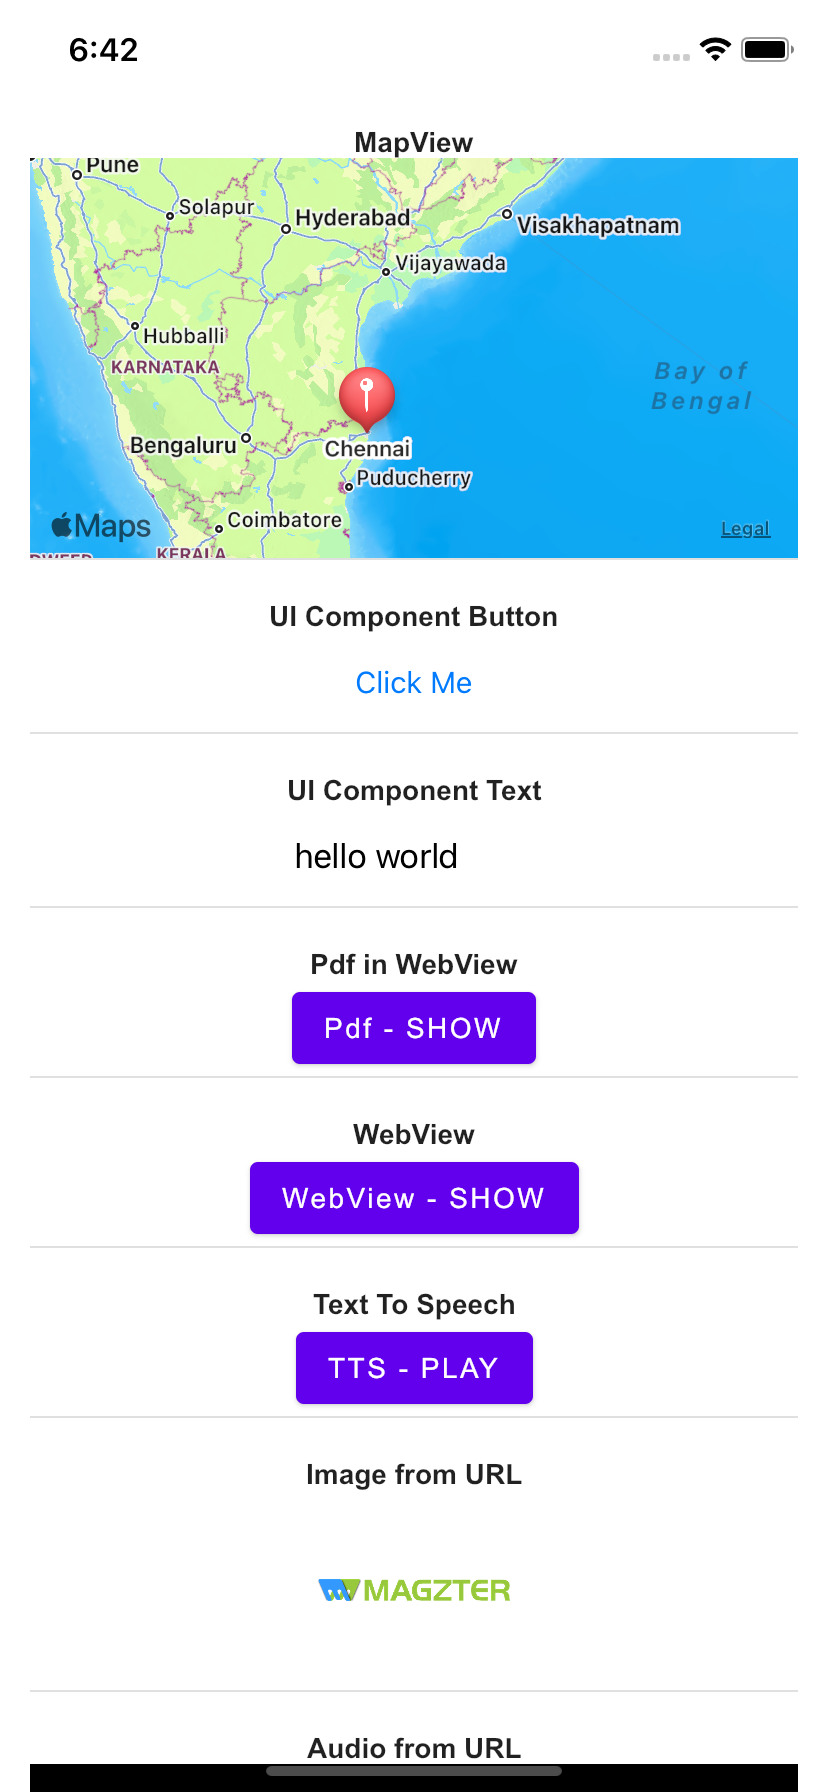
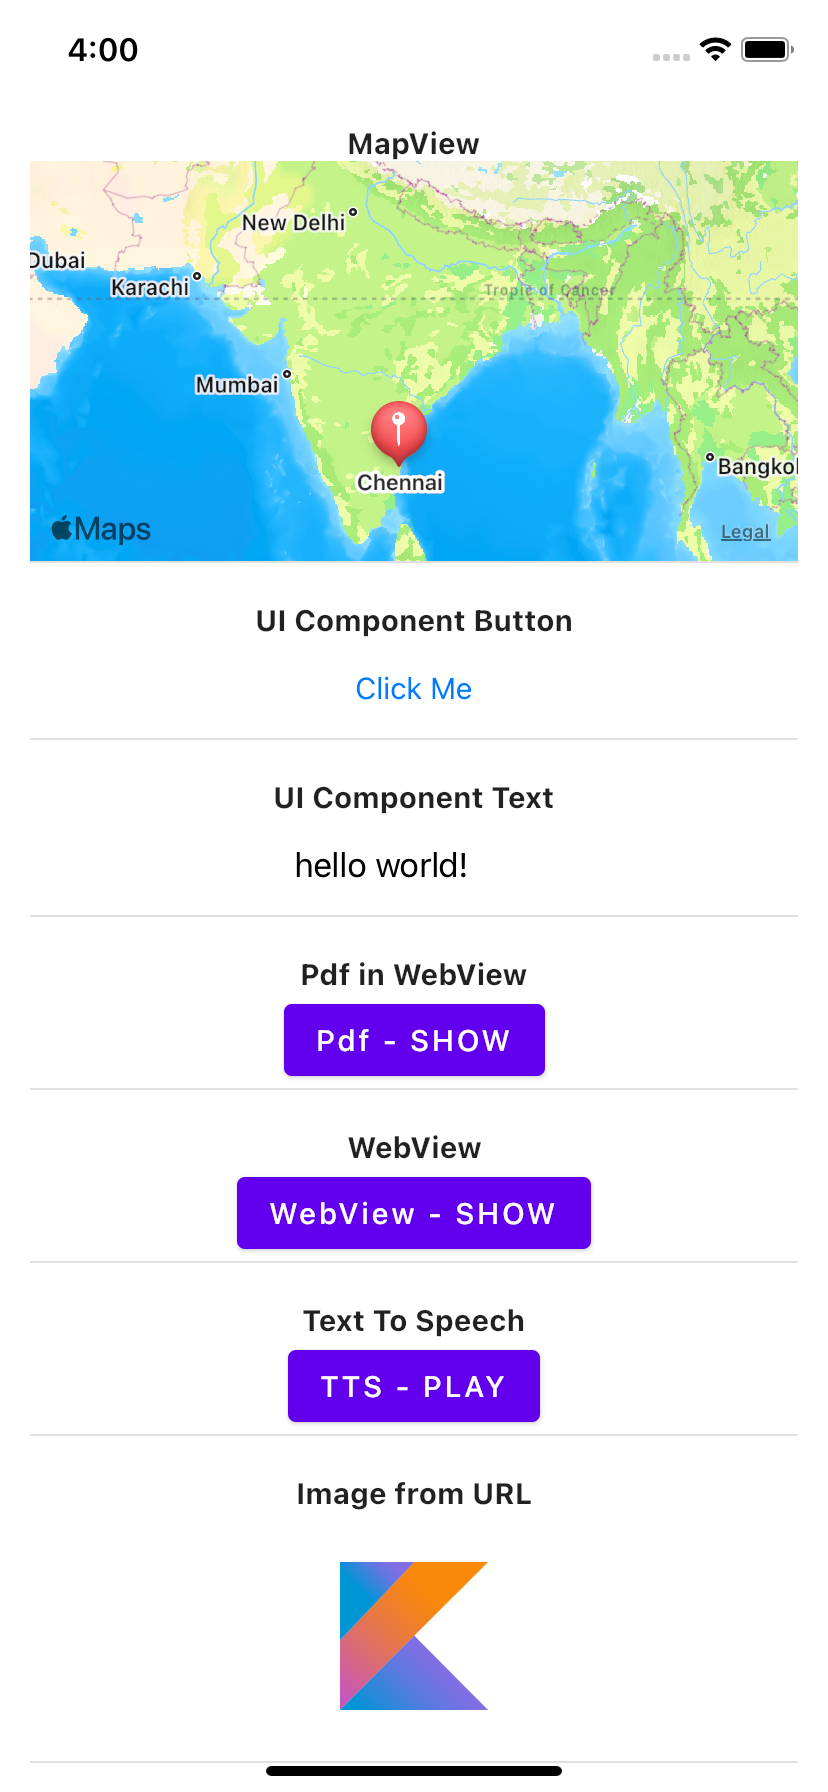
1.50-beta01

diff --git a/shared/src/commonMain/kotlin/App.kt b/shared/src/commonMain/kotlin/App.kt
@@ -1,14 +1,12 @@
 import androidx.compose.foundation.Image
 import androidx.compose.foundation.layout.Arrangement
-import androidx.compose.foundation.layout.Box
 import androidx.compose.foundation.layout.PaddingValues
 import androidx.compose.foundation.layout.fillMaxSize
 import androidx.compose.foundation.layout.fillMaxWidth
 import androidx.compose.foundation.layout.height
-import androidx.compose.foundation.layout.size
 import androidx.compose.foundation.layout.width
-import androidx.compose.foundation.layout.wrapContentSize
 import androidx.compose.foundation.lazy.LazyColumn
+import androidx.compose.foundation.lazy.rememberLazyListState
 import androidx.compose.material.Button
 import androidx.compose.material.Divider
 import androidx.compose.material.Icon
@@ -39,6 +37,7 @@ fun App() {
         var image by remember { mutableStateOf<ImageBitmap?>(null) }
         var showWebView by remember { mutableStateOf(false) }
         var showPdfInWebView by remember { mutableStateOf(false) }
+        val lazyListState = rememberLazyListState()
 
         LaunchedEffect(tts) {
             if (tts) {
@@ -48,7 +47,7 @@ fun App() {
 
         LaunchedEffect(Unit) {
             image = urlToBitmap(
-                "https://image.pitchbook.com/WevrNAvMz4QxF1Ua1HVLjRiP1fV1676357410021_200x200"
+                "https://mathiasfrohlich.gallerycdn.vsassets.io/extensions/mathiasfrohlich/kotlin/1.7.1/1581441165235/Microsoft.VisualStudio.Services.Icons.Default"
             )
         }
 
@@ -66,10 +65,11 @@ fun App() {
                 })
         } else {
             LazyColumn(
-                Modifier.fillMaxWidth(),
+                modifier = Modifier.fillMaxWidth(),
                 horizontalAlignment = Alignment.CenterHorizontally,
                 verticalArrangement = Arrangement.spacedBy(20.dp),
-                contentPadding = PaddingValues(15.dp)
+                contentPadding = PaddingValues(15.dp),
+                state = lazyListState
             ) {
 
                 item {
@@ -117,7 +117,7 @@ fun App() {
 
                     UIComponentText(
                         modifier = Modifier.width(120.dp).height(50.dp),
-                        text = "hello world"
+                        text = "hello world!"
                     )
 
                     Divider()

diff --git a/shared/src/iosMain/kotlin/UIComponentButton.kt b/shared/src/iosMain/kotlin/UIComponentButton.kt
@@ -28,21 +28,21 @@ actual class UIComponentButton actual constructor(val onClick: () -> Unit) {
             uiButton = withContext(Dispatchers.Main) {
                 UIButton.buttonWithType(buttonType = UIButtonTypeSystem).apply {
                     setTitle(title = text, forState = UIControlStateNormal)
-                    addTarget(
-                        target = object : NSObject(), UIGestureRecognizerDelegateProtocol {
-                            override fun gestureRecognizerShouldBegin(gestureRecognizer: UIGestureRecognizer): Boolean {
-                                onClick()
-                                return true
-                            }
-                        },
-                        action = NSSelectorFromString("onClickInternal"),
-                        forControlEvents = UIControlEventTouchUpInside
-                    )
 //                    addTarget(
-//                        this,
-//                        NSSelectorFromString("onClickInternal"),
-//                        UIControlEventTouchUpInside
+//                        target = object : NSObject(), UIGestureRecognizerDelegateProtocol {
+//                            override fun gestureRecognizerShouldBegin(gestureRecognizer: UIGestureRecognizer): Boolean {
+//                                onClick()
+//                                return true
+//                            }
+//                        },
+//                        action = NSSelectorFromString("onClickInternal"),
+//                        forControlEvents = UIControlEventTouchUpInside
 //                    )
+                    addTarget(
+                        this,
+                        NSSelectorFromString("onClickInternal"),
+                        UIControlEventTouchUpInside
+                    )
                 }
             }
         }
